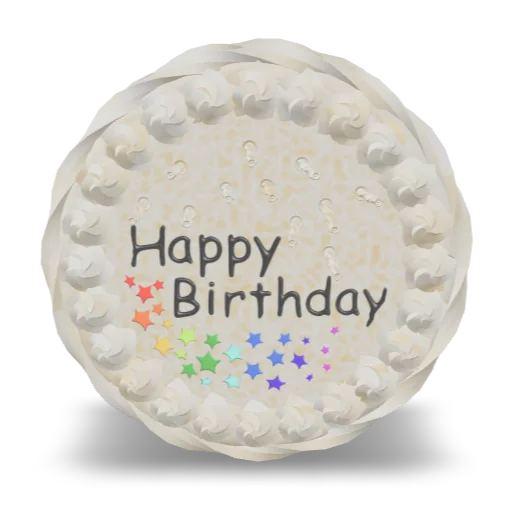
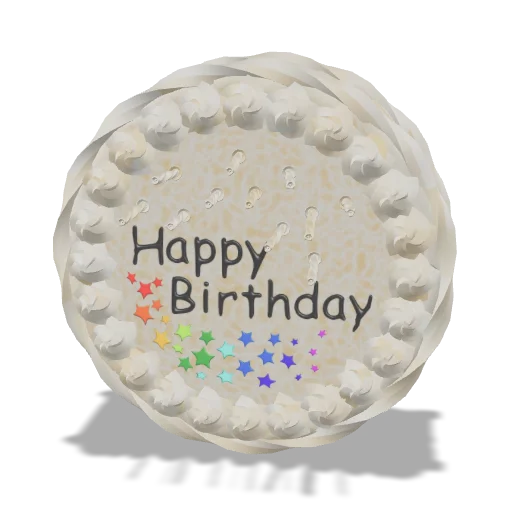
new

Changed region(s): [[0.0591, 0.0625, 0.9449, 0.9688], [0.3839, 0.375, 0.4134, 0.4062], [0.3248, 0.375, 0.3543, 0.4062]]

diff --git a/birthday/index.html b/birthday/index.html
@@ -9,7 +9,7 @@
   </head>
   <body>
     <!-- <model-viewer> HTML element -->
-    <model-viewer src="10868_birthday-cake_v3.gltf" ar ar-modes="webxr scene-viewer quick-look" camera-controls poster="poster.webp" shadow-intensity="1">
+    <model-viewer src="10868_birthday-cake_v3.gltf" ar ar-modes="webxr scene-viewer quick-look" camera-controls poster="poster.webp" shadow-intensity="1.63" exposure="0.83" camera-target="-0.06075m 0m 3.8m" min-camera-orbit="-172deg auto auto" max-camera-orbit="-163deg auto auto" shadow-softness="0.39" environment-image="legacy" skybox-image="legacy">
       <div class="progress-bar hide" slot="progress-bar">
           <div class="update-bar"></div>
       </div>
